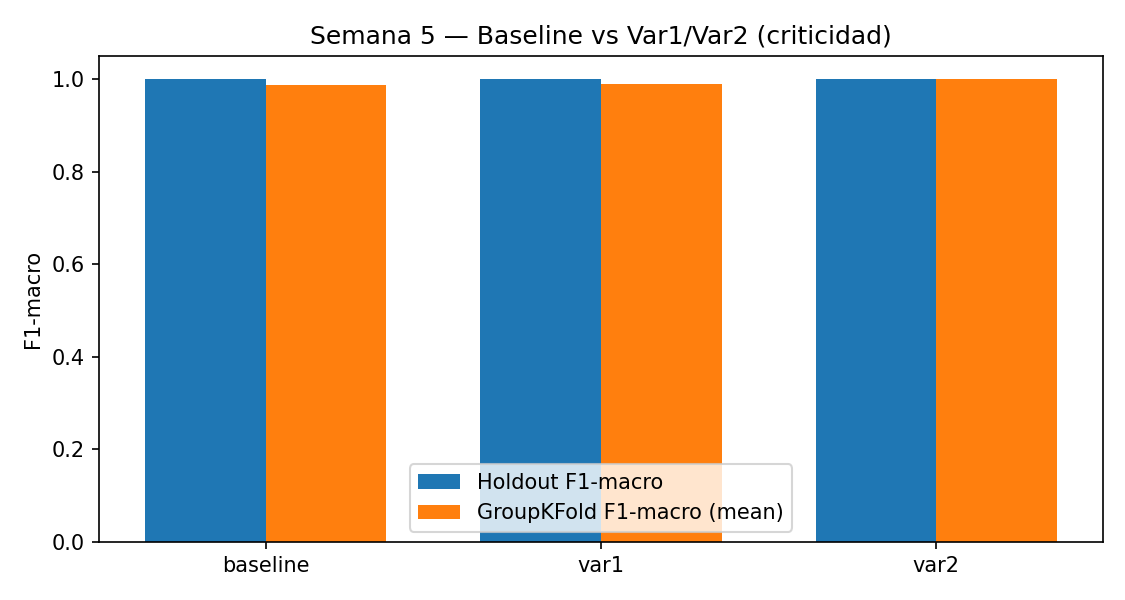
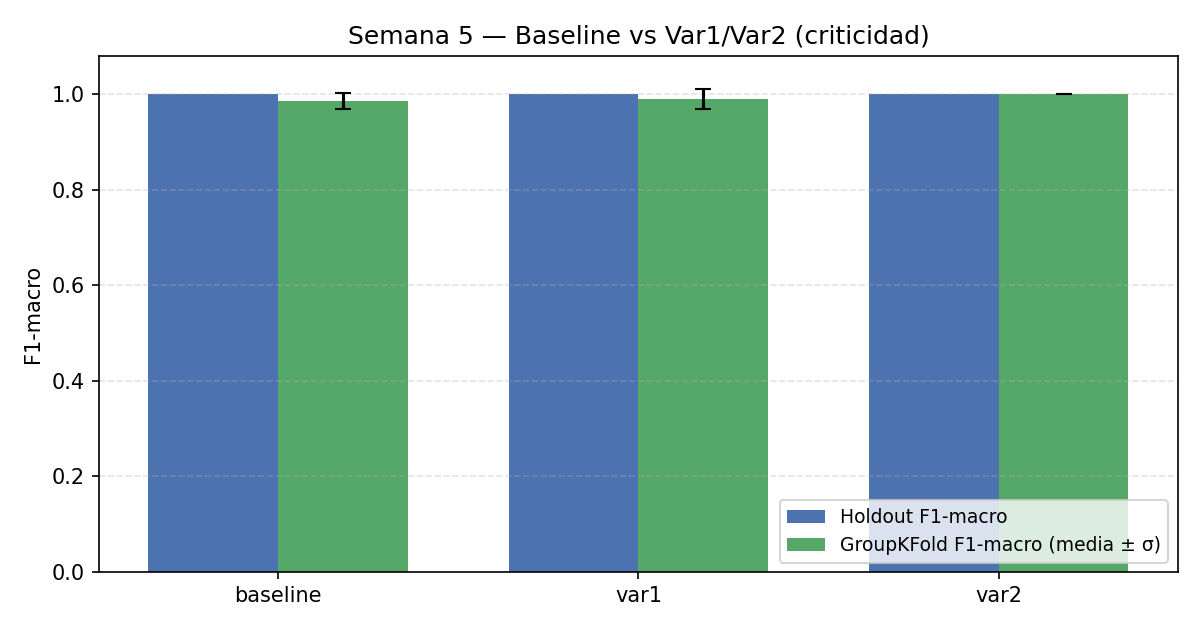
Semana 5: informe ampliado, gráfico con σ GKF, log vigente y descripción baseline alineada

diff --git a/scripts/run_week5_experiments.py b/scripts/run_week5_experiments.py
@@ -160,7 +160,7 @@ def main() -> int:
     experiments: list[ExperimentConfig] = [
         ExperimentConfig(
             name="baseline",
-            description="TF-IDF word unigrams + LogisticRegression (ovr).",
+            description="TF-IDF word unigrams + LogisticRegression (multiclase, solver=lbfgs).",
             vectorizer={"analyzer": "word", "ngram_range": (1, 1), "min_df": 1},
             classifier=base_clf,
         ),
@@ -227,39 +227,110 @@ def main() -> int:
     df_table = pd.DataFrame(table).sort_values("exp")
     df_table.to_csv(OUT_DIR / "results.csv", index=False)
 
-    # Gráfico clave: F1-macro (holdout y group-kfold)
-    fig, ax = plt.subplots(figsize=(7.5, 4.0))
+    # Gráfico clave: F1-macro (holdout y media GKF ± desv. estándar entre folds)
+    fig, ax = plt.subplots(figsize=(8.0, 4.2))
     x = np.arange(len(df_table))
-    ax.bar(x - 0.18, df_table["holdout_f1_macro"], width=0.36, label="Holdout F1-macro")
-    ax.bar(x + 0.18, df_table["gkf_f1_macro_mean"], width=0.36, label="GroupKFold F1-macro (mean)")
+    w = 0.36
+    ax.bar(
+        x - 0.18,
+        df_table["holdout_f1_macro"],
+        width=w,
+        label="Holdout F1-macro",
+        color="#4C72B0",
+    )
+    ax.bar(
+        x + 0.18,
+        df_table["gkf_f1_macro_mean"],
+        width=w,
+        yerr=df_table["gkf_f1_macro_std"],
+        capsize=4,
+        label="GroupKFold F1-macro (media ± σ)",
+        color="#55A868",
+    )
     ax.set_xticks(x)
     ax.set_xticklabels(df_table["exp"].tolist())
-    ax.set_ylim(0, 1.05)
+    ax.set_ylim(0, 1.08)
     ax.set_ylabel("F1-macro")
     ax.set_title("Semana 5 — Baseline vs Var1/Var2 (criticidad)")
-    ax.legend()
+    ax.legend(loc="lower right", fontsize=9)
+    ax.grid(axis="y", linestyle="--", alpha=0.35)
     plt.tight_layout()
     fig_path = OUT_DIR / "comparison_f1_macro.png"
     plt.savefig(fig_path, dpi=150)
     plt.close(fig)
 
-    # Resumen en Markdown
-    md = []
+    # Resumen en Markdown (legible para entrega; métricas redondeadas en tabla)
+    n_samples = int(len(df))
+    md_table = df_table.copy()
+    num_cols = [c for c in md_table.columns if c != "exp"]
+    md_table[num_cols] = md_table[num_cols].round(4)
+
+    md: list[str] = []
     md.append("# Semana 5 — Experimentos A/B vs baseline\n")
+    md.append("## Objetivo y diseño\n")
+    md.append(
+        "Clasificar el modo de criticidad (`gold_mode`: play / pausa / stop) a partir del texto "
+        "del campo `requirement`, con un **baseline ML** (sin LLM) y **dos variantes** que cambian "
+        "**solo** la representación TF-IDF frente al baseline, para comparación controlada.\n"
+    )
+    md.append(
+        "- **Baseline:** TF-IDF *word* unigramas + `LogisticRegression`.\n"
+        "- **Var1:** único cambio → TF-IDF *word* n-gramas (1, 2).\n"
+        "- **Var2:** único cambio → TF-IDF *char* n-gramas (3, 5).\n"
+    )
+    md.append(
+        f"- **Clasificador (igual en los tres):** `solver=lbfgs`, `max_iter=2000`, `random_state={args.seed}`.\n"
+    )
+    md.append("\n## Metadatos de la corrida\n")
     md.append(f"- **Run id:** `{run_id}`\n")
-    md.append(f"- **Dataset:** `{CASES_FILE.relative_to(REPO_ROOT).as_posix()}`\n")
-    md.append(f"- **Holdout:** test_size={args.test_size}, seed={args.seed}\n")
-    md.append(f"- **Cross-validation:** GroupKFold(k={args.group_k}) por `template_index` (reduce leakage por plantilla)\n")
+    md.append(f"- **Dataset:** `{CASES_FILE.relative_to(REPO_ROOT).as_posix()}` (`n={n_samples}`)\n")
+    md.append("\n## Validación\n")
+    md.append(
+        f"- **Holdout:** `StratifiedShuffleSplit` (un split), `test_size={args.test_size}`, `random_state={args.seed}` "
+        "(estratificado por `gold_mode`).\n"
+    )
+    md.append(
+        f"- **CV por grupos:** `GroupKFold(n_splits={args.group_k})` con `groups=template_index` "
+        "(ningún fold mezcla la misma plantilla entre train y test).\n"
+    )
+    md.append(
+        "- **Métrica principal:** F1-macro (multiclase). **Secundarias:** accuracy y tiempo de ajuste+predicción "
+        "en holdout / tiempo total en los k folds para GKF.\n"
+    )
     md.append("\n## Tabla comparable\n")
-    md.append(df_table.to_markdown(index=False))
-    md.append("\n\n## Gráfico clave\n")
-    md.append(f"- `{fig_path.relative_to(REPO_ROOT).as_posix()}`\n")
-    md.append("\n## Feature set y split (auditoría)\n")
-    md.append("- **Features usadas:** `requirement` (texto). TF-IDF según variante.\n")
-    md.append("- **Transformaciones:** tokenización TF-IDF (word o char n-grams). `fit` solo en train por construcción del pipeline.\n")
-    md.append("- **Split/leakage:** además de holdout estratificado, se reporta GroupKFold por `template_index` para evitar que la misma plantilla aparezca en train y test.\n")
-    md.append("\n## Logs\n")
-    md.append(f"- `{log_path.relative_to(REPO_ROOT).as_posix()}` (una línea JSON por experimento)\n")
+    md.append(md_table.to_markdown(index=False))
+    md.append("\n\n## Lectura de resultados\n")
+    md.append(
+        "- El **holdout** puede mostrar **F1-macro = 1.0** con un test pequeño y un problema relativamente "
+        "separable; no implica ausencia de error en generalización.\n"
+    )
+    md.append(
+        "- La evaluación **GroupKFold por plantilla** es la referencia más conservadora frente a **fuga por "
+        "plantilla** (misma estructura de caso en train y test). Ahí se observa variación entre folds "
+        "(barras de error en el gráfico).\n"
+    )
+    md.append(
+        "- **Coste/tiempo:** Var2 (char n-grams) aumenta claramente el tiempo frente a Var1 y baseline; "
+        "el trade-off conveniencia vs. ganancia marginal en F1 depende del despliegue.\n"
+    )
+    md.append("\n## Gráfico clave\n")
+    md.append(
+        f"- Archivo: `{fig_path.relative_to(REPO_ROOT).as_posix()}` (F1-macro holdout vs media GKF con σ).\n"
+    )
+    md.append("\n## Feature set y pipeline (auditoría de leakage)\n")
+    md.append("- **Features:** solo texto `requirement`.\n")
+    md.append("- **Transformación:** `TfidfVectorizer` (word o char; rango de n-gramas según experimento). `min_df=1`.\n")
+    md.append(
+        "- **Sin leakage por ajuste del vectorizador:** el vectorizador vive dentro de un `Pipeline` de sklearn; "
+        "en cada split se llama a `fit` solo con filas de entrenamiento.\n"
+    )
+    md.append(
+        "- **Etiqueta y agrupación:** `y = gold_mode`; grupos para GKF = `template_index` (relleno -1 si falta).\n"
+    )
+    md.append("\n## Logs reproducibles\n")
+    md.append(
+        f"- `{log_path.relative_to(REPO_ROOT).as_posix()}` — una línea JSON por experimento (config + métricas).\n"
+    )
     (OUT_DIR / "week5_report.md").write_text("\n".join(md) + "\n", encoding="utf-8")
 
     print("OK — semana 5 artefactos generados:")

diff --git a/docs/experiments/week5/week5_report.md b/docs/experiments/week5/week5_report.md
@@ -1,38 +1,67 @@
 # Semana 5 — Experimentos A/B vs baseline
 
-- **Run id:** `20260508_150159`
+## Objetivo y diseño
 
-- **Dataset:** `data/criticidad_cases/casos_gold_criticidad_v2.jsonl`
+Clasificar el modo de criticidad (`gold_mode`: play / pausa / stop) a partir del texto del campo `requirement`, con un **baseline ML** (sin LLM) y **dos variantes** que cambian **solo** la representación TF-IDF frente al baseline, para comparación controlada.
 
-- **Holdout:** test_size=0.2, seed=42
+- **Baseline:** TF-IDF *word* unigramas + `LogisticRegression`.
+- **Var1:** único cambio → TF-IDF *word* n-gramas (1, 2).
+- **Var2:** único cambio → TF-IDF *char* n-gramas (3, 5).
 
-- **Cross-validation:** GroupKFold(k=5) por `template_index` (reduce leakage por plantilla)
+- **Clasificador (igual en los tres):** `solver=lbfgs`, `max_iter=2000`, `random_state=42`.
+
+
+## Metadatos de la corrida
+
+- **Run id:** `20260516_004409`
+
+- **Dataset:** `data/criticidad_cases/casos_gold_criticidad_v2.jsonl` (`n=300`)
+
+
+## Validación
+
+- **Holdout:** `StratifiedShuffleSplit` (un split), `test_size=0.2`, `random_state=42` (estratificado por `gold_mode`).
+
+- **CV por grupos:** `GroupKFold(n_splits=5)` con `groups=template_index` (ningún fold mezcla la misma plantilla entre train y test).
+
+- **Métrica principal:** F1-macro (multiclase). **Secundarias:** accuracy y tiempo de ajuste+predicción en holdout / tiempo total en los k folds para GKF.
 
 
 ## Tabla comparable
 
 | exp      |   holdout_f1_macro |   holdout_accuracy |   holdout_time_sec |   gkf_f1_macro_mean |   gkf_f1_macro_std |   gkf_accuracy_mean |   gkf_time_sec |
 |:---------|-------------------:|-------------------:|-------------------:|--------------------:|-------------------:|--------------------:|---------------:|
-| baseline |                  1 |                  1 |          0.0143624 |            0.986556 |          0.0164661 |            0.986667 |      0.0918948 |
-| var1     |                  1 |                  1 |          0.0237283 |            0.989943 |          0.0201131 |            0.99     |      0.133865  |
-| var2     |                  1 |                  1 |          0.402002  |            1        |          0         |            1        |      1.49063   |
+| baseline |                  1 |                  1 |             0.0403 |              0.9866 |             0.0165 |              0.9867 |         0.1756 |
+| var1     |                  1 |                  1 |             0.0624 |              0.9899 |             0.0201 |              0.99   |         0.2466 |
+| var2     |                  1 |                  1 |             0.5848 |              1      |             0      |              1      |         3.5976 |
+
+
+## Lectura de resultados
+
+- El **holdout** puede mostrar **F1-macro = 1.0** con un test pequeño y un problema relativamente separable; no implica ausencia de error en generalización.
+
+- La evaluación **GroupKFold por plantilla** es la referencia más conservadora frente a **fuga por plantilla** (misma estructura de caso en train y test). Ahí se observa variación entre folds (barras de error en el gráfico).
+
+- **Coste/tiempo:** Var2 (char n-grams) aumenta claramente el tiempo frente a Var1 y baseline; el trade-off conveniencia vs. ganancia marginal en F1 depende del despliegue.
 
 
 ## Gráfico clave
 
-- `docs/experiments/week5/comparison_f1_macro.png`
+- Archivo: `docs/experiments/week5/comparison_f1_macro.png` (F1-macro holdout vs media GKF con σ).
 
 
-## Feature set y split (auditoría)
+## Feature set y pipeline (auditoría de leakage)
 
-- **Features usadas:** `requirement` (texto). TF-IDF según variante.
+- **Features:** solo texto `requirement`.
 
-- **Transformaciones:** tokenización TF-IDF (word o char n-grams). `fit` solo en train por construcción del pipeline.
+- **Transformación:** `TfidfVectorizer` (word o char; rango de n-gramas según experimento). `min_df=1`.
 
-- **Split/leakage:** además de holdout estratificado, se reporta GroupKFold por `template_index` para evitar que la misma plantilla aparezca en train y test.
+- **Sin leakage por ajuste del vectorizador:** el vectorizador vive dentro de un `Pipeline` de sklearn; en cada split se llama a `fit` solo con filas de entrenamiento.
+
+- **Etiqueta y agrupación:** `y = gold_mode`; grupos para GKF = `template_index` (relleno -1 si falta).
 
 
-## Logs
+## Logs reproducibles
 
-- `logs/week5/week5_experiments_20260508_150159.jsonl` (una línea JSON por experimento)
+- `logs/week5/week5_experiments_20260516_004409.jsonl` — una línea JSON por experimento (config + métricas).
 

diff --git a/docs/experiments/week5/README.md b/docs/experiments/week5/README.md
@@ -15,8 +15,8 @@ Script: [`scripts/run_week5_experiments.py`](../../../scripts/run_week5_experime
 ## Resultados comparables (tabla + 1 gráfico)
 
 - **Tabla estándar**: [`results.csv`](results.csv)  
-- **Resumen en Markdown**: [`week5_report.md`](week5_report.md)  
-- **Gráfico clave** (F1‑macro baseline vs variantes): [`comparison_f1_macro.png`](comparison_f1_macro.png)
+- **Resumen en Markdown**: [`week5_report.md`](week5_report.md) — incluye objetivo, validación, tabla redondeada y **lectura** de resultados (por qué el holdout puede ir a 1.0 y por qué priorizar GKF por plantilla).  
+- **Gráfico clave** (F1‑macro holdout vs media GKF con **barras de error σ** entre folds): [`comparison_f1_macro.png`](comparison_f1_macro.png)
 
 La métrica principal reportada es **F1‑macro** (multiclase). Secundarias: **accuracy** y tiempo.
 